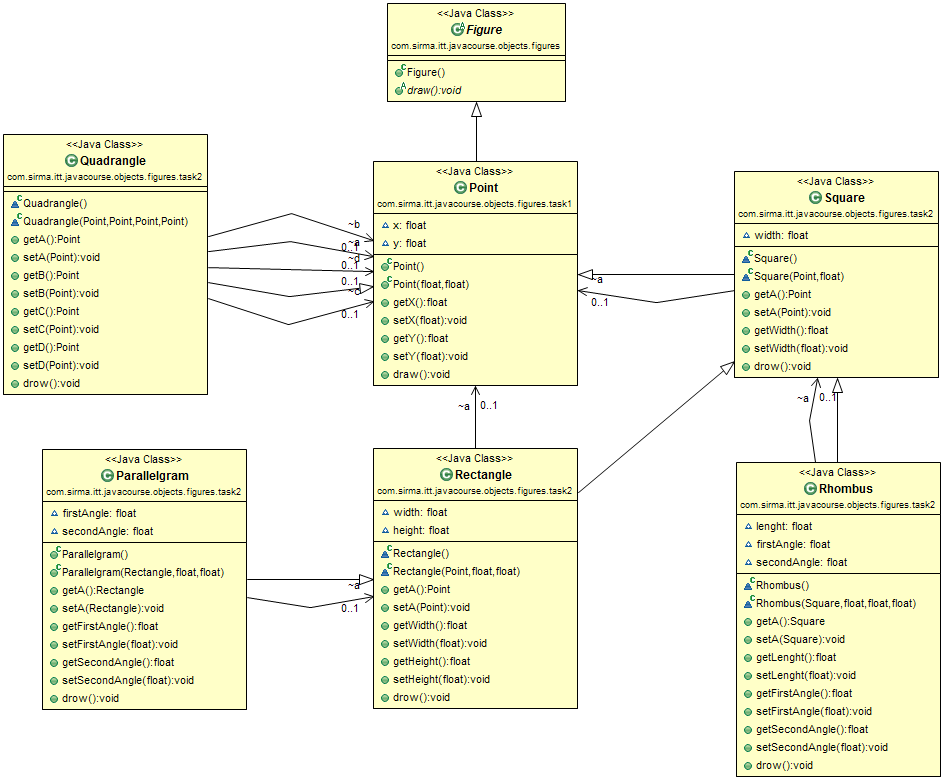
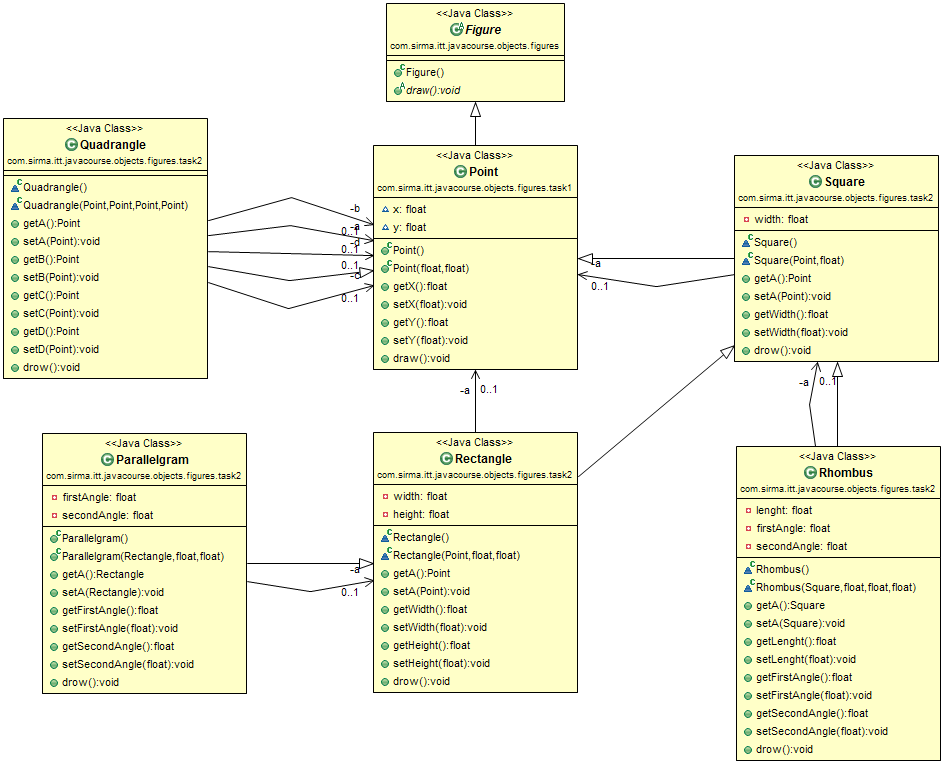
feedback 1

diff --git a/Objects In Java/src/main/java/com/sirma/itt/javacourse/objects/figures/task3/PolyLine.java b/Objects In Java/src/main/java/com/sirma/itt/javacourse/objects/figures/task3/PolyLine.java
@@ -9,8 +9,8 @@ import com.sirma.itt.javacourse.objects.figures.task1.Point;
  */
 
 public class PolyLine extends Point {
-	int pointsNumber;
-	Point[] allPoints = new Point[pointsNumber];
+	private int pointsNumber;
+	private Point[] allPoints = new Point[pointsNumber];
 
 	/**
 	 * Default constructor.
@@ -44,7 +44,8 @@ public class PolyLine extends Point {
 	/**
 	 * Setter method for pointsNumber.
 	 *
-	 * @param pointsNumber the pointsNumber to set
+	 * @param pointsNumber
+	 *            the pointsNumber to set
 	 */
 	public void setPointsNumber(int pointsNumber) {
 		this.pointsNumber = pointsNumber;
@@ -62,7 +63,8 @@ public class PolyLine extends Point {
 	/**
 	 * Setter method for allPoints.
 	 *
-	 * @param allPoints the allPoints to set
+	 * @param allPoints
+	 *            the allPoints to set
 	 */
 	public void setAllPoints(Point[] allPoints) {
 		this.allPoints = allPoints;

diff --git a/Objects In Java/src/main/java/com/sirma/itt/javacourse/objects/figures/task2/Rhombus.java b/Objects In Java/src/main/java/com/sirma/itt/javacourse/objects/figures/task2/Rhombus.java
@@ -6,10 +6,10 @@ package com.sirma.itt.javacourse.objects.figures.task2;
  * @author Malvina Makarieva
  */
 public class Rhombus extends Square {
-	Square a;
-	float lenght;
-	float firstAngle;
-	float secondAngle;
+	private Square a;
+	private float lenght;
+	private float firstAngle;
+	private float secondAngle;
 
 	/**
 	 * Default constructor.

diff --git a/Objects In Java/src/main/java/com/sirma/itt/javacourse/objects/figures/task2/Parallelgram.java b/Objects In Java/src/main/java/com/sirma/itt/javacourse/objects/figures/task2/Parallelgram.java
@@ -6,9 +6,9 @@ package com.sirma.itt.javacourse.objects.figures.task2;
  * @author Malvina Makarieva
  */
 public class Parallelgram extends Rectangle {
-	Rectangle a;
-	float firstAngle;
-	float secondAngle;
+	private Rectangle a;
+	private float firstAngle;
+	private float secondAngle;
 
 	/**
 	 * Default constructor

diff --git a/Objects In Java/src/main/java/com/sirma/itt/javacourse/objects/figures/task1/Ellipse.java b/Objects In Java/src/main/java/com/sirma/itt/javacourse/objects/figures/task1/Ellipse.java
@@ -6,9 +6,9 @@ package com.sirma.itt.javacourse.objects.figures.task1;
  * @author Mlvina Makarieva.
  */
 public class Ellipse extends Circle {
-	Point a;
-	float firstRadius;
-	float secondRadius;
+	private Point a;
+	private float firstRadius;
+	private float secondRadius;
 
 	/**
 	 * Default constructor.

diff --git a/Objects In Java/src/main/java/com/sirma/itt/javacourse/objects/figures/task2/Quadrangle.java b/Objects In Java/src/main/java/com/sirma/itt/javacourse/objects/figures/task2/Quadrangle.java
@@ -8,10 +8,10 @@ import com.sirma.itt.javacourse.objects.figures.task1.Point;
  * @author Malvina Makarieva
  */
 public class Quadrangle extends Point {
-	Point a;
-	Point b;
-	Point c;
-	Point d;
+	private Point a;
+	private Point b;
+	private Point c;
+	private Point d;
 
 	/**
 	 * Default constructor.

diff --git a/Objects In Java/src/main/java/com/sirma/itt/javacourse/objects/figures/task2/Rectangle.java b/Objects In Java/src/main/java/com/sirma/itt/javacourse/objects/figures/task2/Rectangle.java
@@ -8,9 +8,9 @@ import com.sirma.itt.javacourse.objects.figures.task1.Point;
  * @author Malvina Makarieva.
  */
 public class Rectangle extends Square {
-	Point a;
-	float width;
-	float height;
+	private Point a;
+	private float width;
+	private float height;
 
 	/**
 	 * Default constructor.

diff --git a/Objects In Java/src/main/java/com/sirma/itt/javacourse/objects/figures/task1/Curve.java b/Objects In Java/src/main/java/com/sirma/itt/javacourse/objects/figures/task1/Curve.java
@@ -6,9 +6,9 @@ package com.sirma.itt.javacourse.objects.figures.task1;
  * @author Malvina Makarieva
  */
 public class Curve extends Point {
-	Point a;
-	int angle;
-	float lenght;
+	private Point a;
+	private int angle;
+	private float lenght;
 
 	/**
 	 * Default constructor.

diff --git a/Objects In Java/src/main/java/com/sirma/itt/javacourse/objects/figures/task1/Circle.java b/Objects In Java/src/main/java/com/sirma/itt/javacourse/objects/figures/task1/Circle.java
@@ -6,8 +6,8 @@ package com.sirma.itt.javacourse.objects.figures.task1;
  * @author Malvina Makarieva
  */
 public class Circle extends Curve {
-	Point a;
-	float radius;
+	private Point a;
+	private float radius;
 
 	/**
 	 * Default constructor of Circle class.

diff --git a/Objects In Java/src/main/java/com/sirma/itt/javacourse/objects/figures/task1/Point.java b/Objects In Java/src/main/java/com/sirma/itt/javacourse/objects/figures/task1/Point.java
@@ -8,8 +8,8 @@ import com.sirma.itt.javacourse.objects.figures.Figure;
  * @author Malvina Makarieva.
  */
 public class Point extends Figure {
-	float x;
-	float y;
+	private float x;
+	private float y;
 
 	/**
 	 * Default constructor.

diff --git a/Objects In Java/src/main/java/com/sirma/itt/javacourse/objects/figures/task2/Square.java b/Objects In Java/src/main/java/com/sirma/itt/javacourse/objects/figures/task2/Square.java
@@ -9,8 +9,8 @@ import com.sirma.itt.javacourse.objects.figures.task1.Point;
  */
 public class Square extends Point {
 
-	Point a;
-	float width;
+	private Point a;
+	private float width;
 
 	/**
 	 * Default constructor
